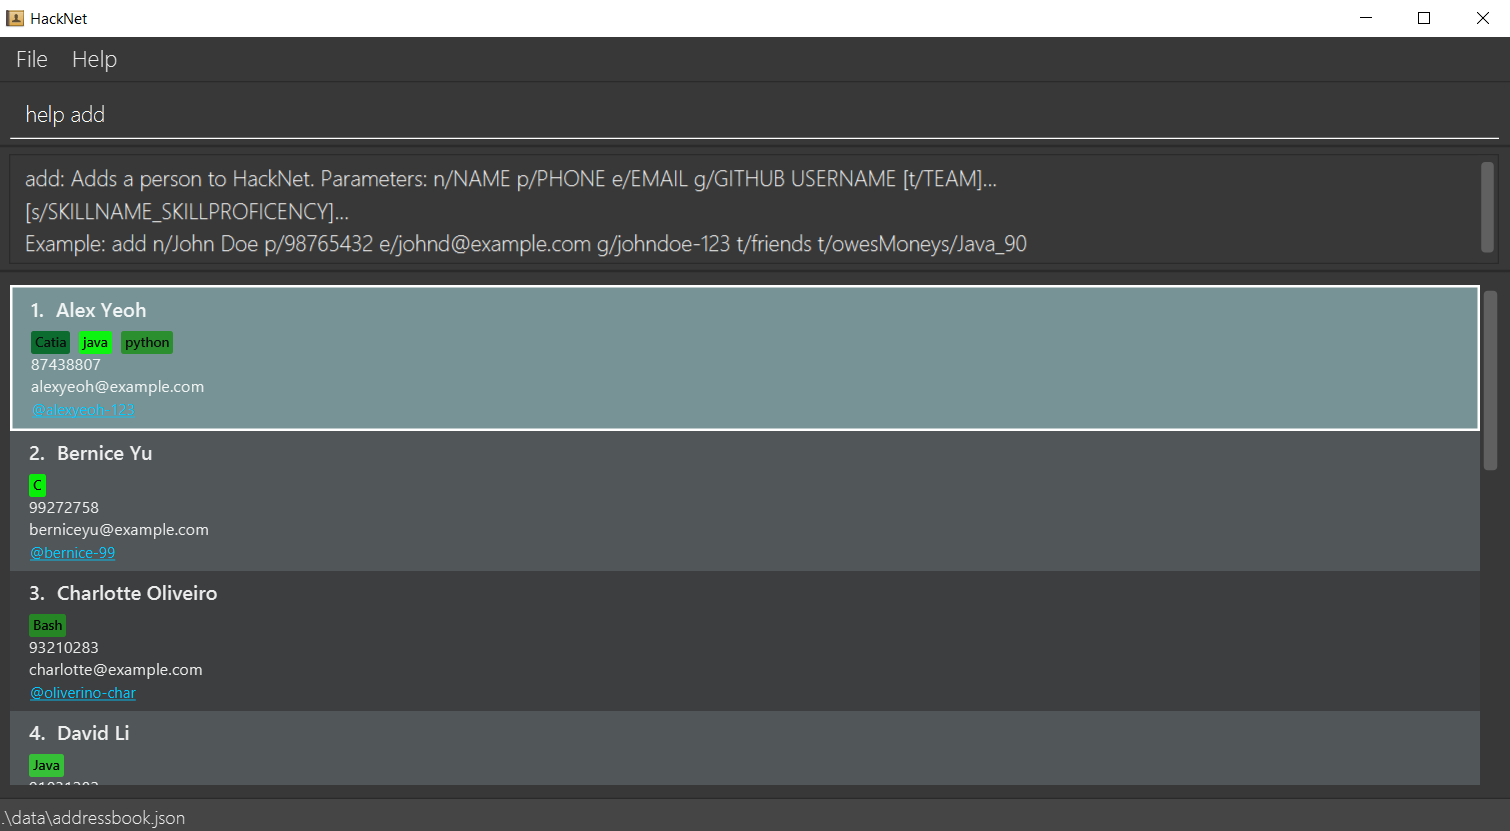
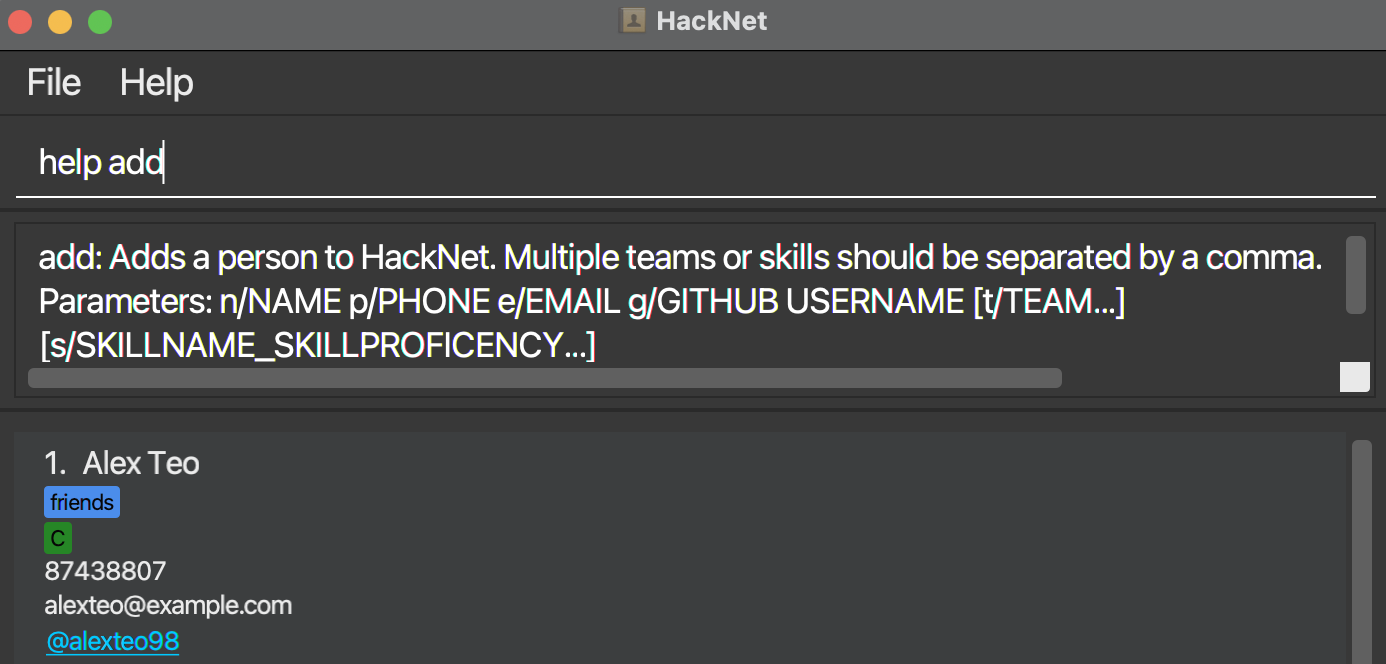
Update screenshots from old version of HackNet in UG

diff --git a/docs/UserGuide.md b/docs/UserGuide.md
@@ -13,8 +13,8 @@ Welcome to the User Guide for **HackNet**, where we will guide you through all y
     * [Viewing help: help](#viewing-help-help)
     * [Contact Management](#contact-management)
       * [Adding a person: add](#adding-a-person-add)
-      * [Editing details for existing contact: edit](#editing-a-person-edit)
-      * [Add/remove person as potential teammate: team/unteam](#addremove-potential-teammates-teamunteam)
+      * [Editing details for existing contact: edit](#editing-any-number-of-persons-edit)
+      * [Add/remove person as potential teammate: team/unteam](#markunmark-contact-as-potential-teammates-teamunteam)
       * [Deleting a person: delete](#deleting-a-person-delete)
       * [Remove all contacts: clear](#clearing-all-entries-clear)
     * [Team Forming](#team-forming)
@@ -24,9 +24,10 @@ Welcome to the User Guide for **HackNet**, where we will guide you through all y
       * [Sort person by technical skill: sort](#sorting-persons-by-skill-proficiency-sort)
       * [Show past teammates: filterteam](#filter-for-past-teammates-filterteam)
       * [Show potential teammates: show](#show-all-potential-teammates-show)
-    * [Undo](#undo-last-command-undo)
-    * [Redo](#redo-last-command-redo)
-    * [Navigating User Input History](#navigating-user-input-history)
+    * [Utility](#utility)
+      * [Undo](#undo-last-command-undo)
+      * [Redo](#redo-last-command-redo)
+      * [Navigating User Input History](#navigating-user-input-history--)
     * [Exiting HackNet](#exiting-the-program-exit)
 * [Data](#data)
 * [FAQ](#faq)
@@ -180,7 +181,7 @@ Format: `list`
 
 ### Locating persons by name: `find`
 
-Finds persons whose names contain any of the given keywords.
+Finds persons whose *names* contain any of the given keywords.
 
 Format: `find KEYWORD [MORE_KEYWORDS]`
 
@@ -193,8 +194,8 @@ Format: `find KEYWORD [MORE_KEYWORDS]`
 
 Examples:
 * `find John` returns `john` and `John Doe`
-* `find alex david` returns `Alex Yeoh`, `David Li`<br>
-  ![result for 'find alex david'](images/findAlexDavidResult.png)
+* `find alex melvin` returns `Alex Teo`, `Melvin Chan`<br>
+  ![result for 'find alex melvin'](images/findAlexMelvinResult.png)
 
 ### Locating persons by skills: `filter`
 
@@ -206,8 +207,8 @@ Format: `filter KEYWORD`
 * Only full words will be matched e.g. `C` will not match `C#`
 
 Examples:
-* `find C` returns `Alex Yeoh`, `Bernice Yu` and `Irfan Ibrahim`
-* `filter java` returns `David Li`<br>
+* `filter C` returns `Alex Teo`, `Lye Jia Yang` and `Toh Zhan Qing`
+* `filter java` returns `Junha Park`<br>
   ![result for 'filter C'](images/filterCResult.png)
 
 ### Sorting persons by skill proficiency: `sort`
@@ -251,6 +252,10 @@ Format: `filterteam`
 Shows the list of all persons marked as potential teammates
 
 Format: `show`
+
+## Utility
+
+This section contains some commands/shortcuts that can improve your work efficiency in using **HackNet**.
 
 ### Undo last command: `undo`
 
